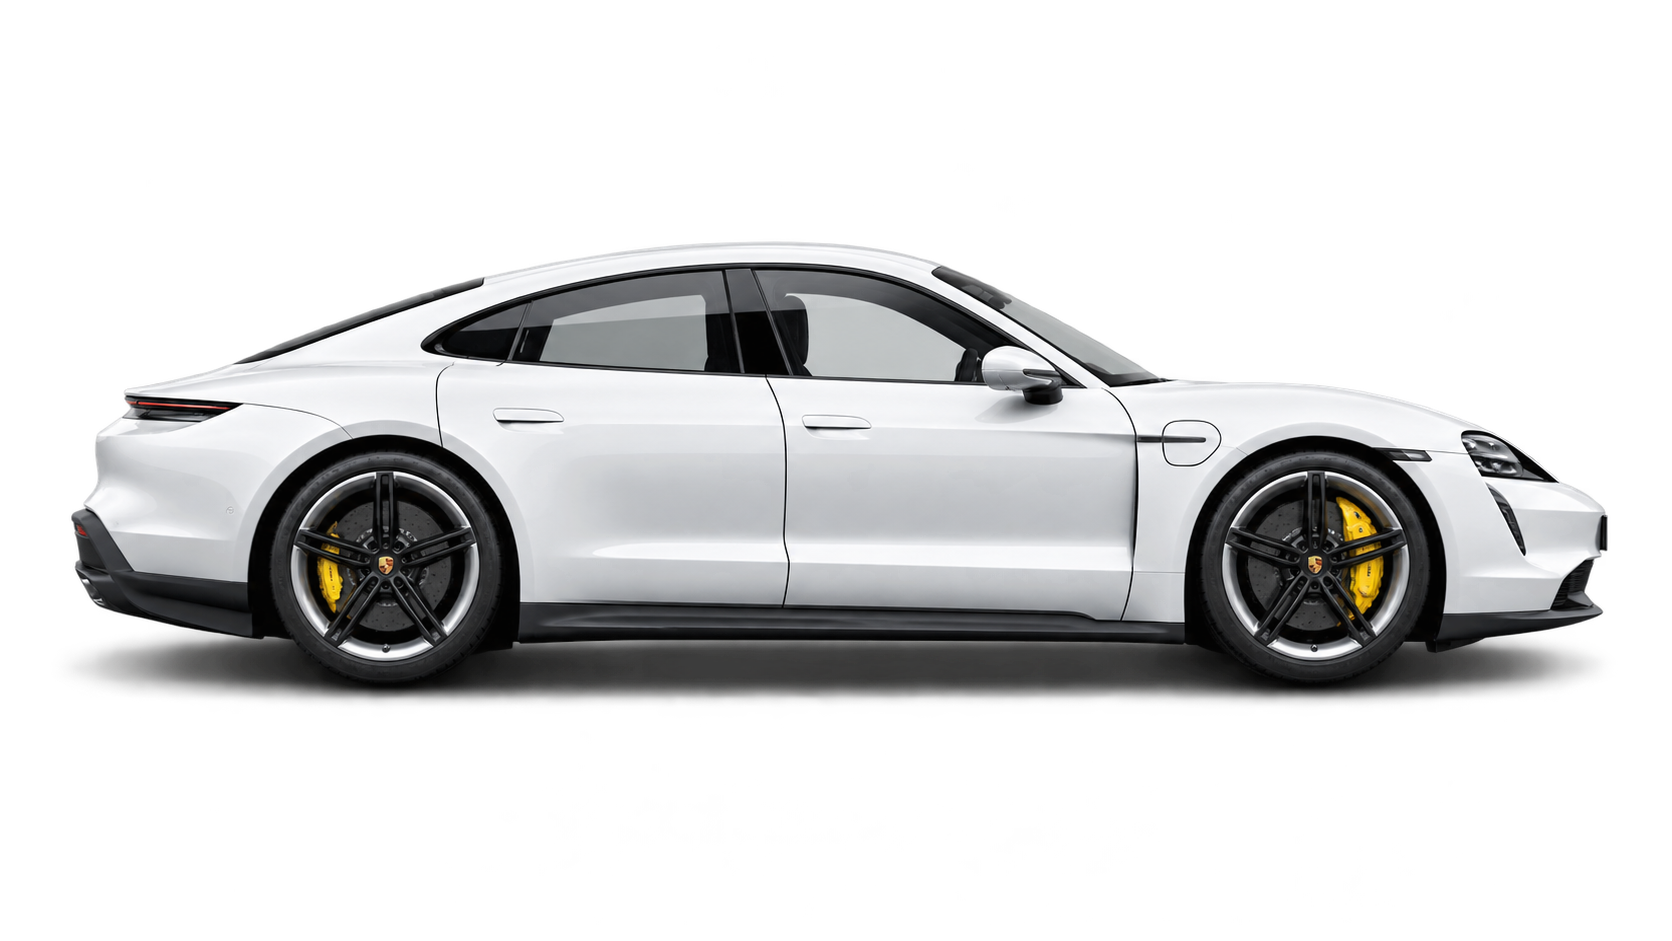
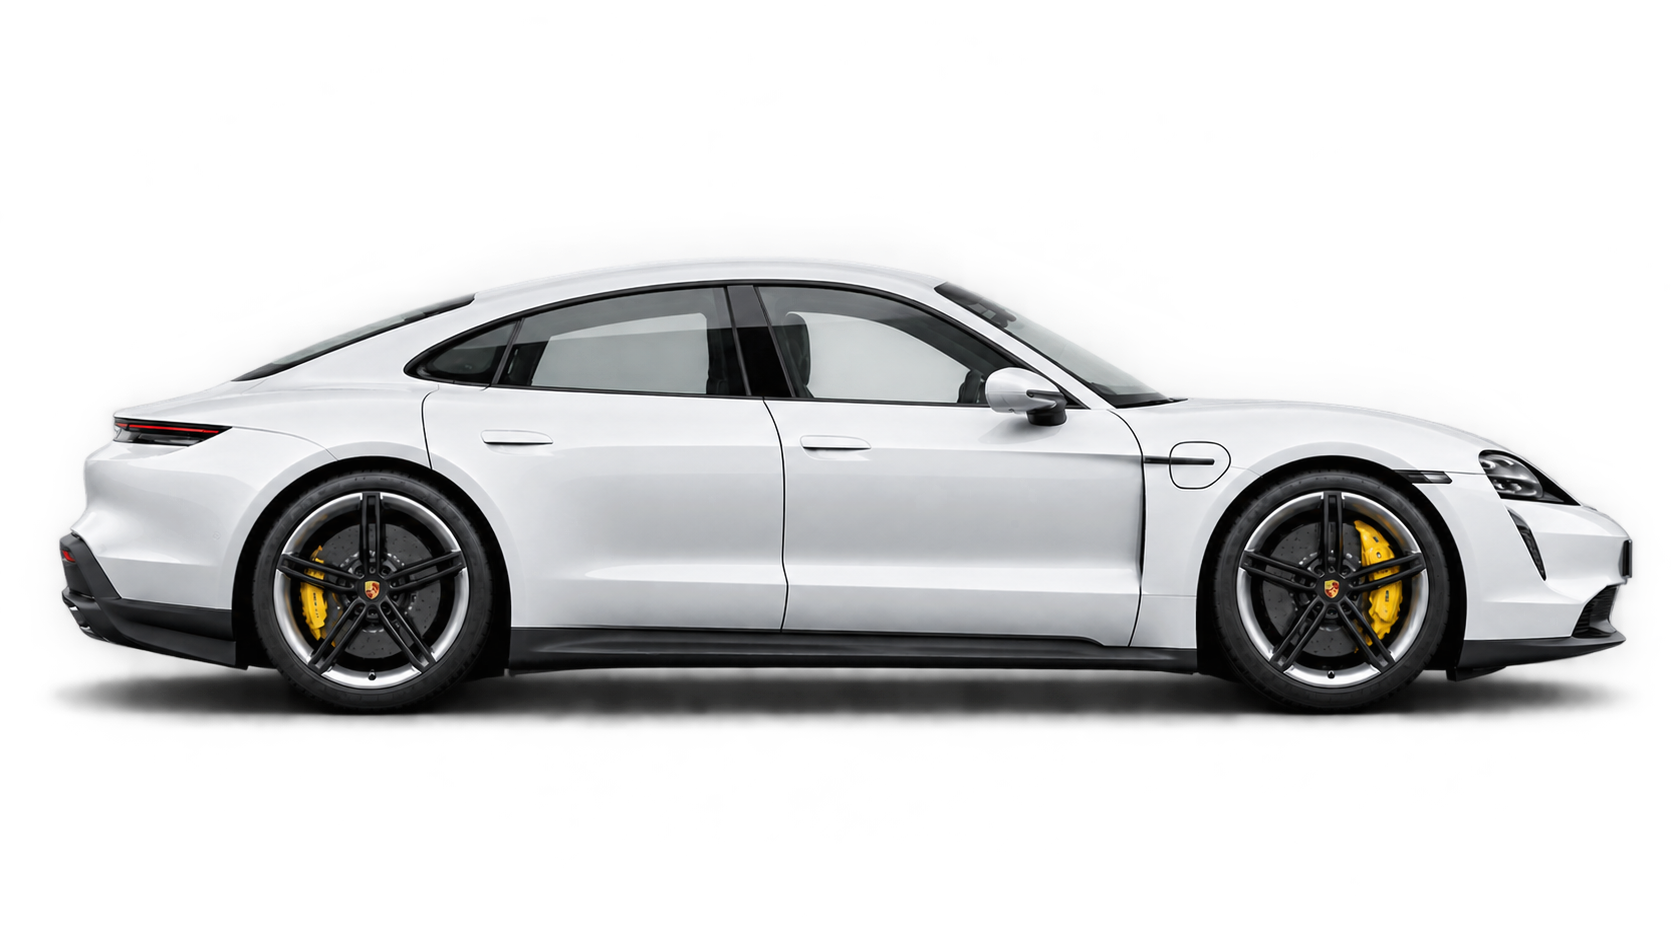
Adding Footer Section and Adjustment in Images

Changed region(s): [[0.0311, 0.2465, 0.9958, 0.7705]]

diff --git a/style.css b/style.css
@@ -3,7 +3,9 @@
     padding: 0;
     box-sizing: border-box;
 }
-html ,body {
+
+html,
+body {
     height: 100%;
     width: 100%;
 }
@@ -12,22 +14,23 @@ main {
     padding: 5px 30px 15px 30px;
     height: 100%;
     width: 100%;
-   
     gap: 10px;
-    
 }
-nav{
+
+nav {
     margin-left: 70px;
     display: flex;
     gap: 40px;
     align-items: center;
 }
-nav img{
+
+nav img {
     height: 100px;
     width: 90px;
     margin-right: 120px;
 }
-nav button{
+
+nav button {
     margin-left: 130px;
     width: 120px;
     height: 37px;
@@ -37,47 +40,77 @@ nav button{
     cursor: pointer;
     font-weight: 700;
 }
-.links{
+
+.links {
     display: flex;
     gap: 80px;
-    align-items:center ;
+    align-items: center;
     text-transform: uppercase;
     font-weight: 700;
     cursor: pointer;
-    font-family:system-ui, -apple-system, BlinkMacSystemFont, 'Segoe UI', Roboto, Oxygen, Ubuntu, Cantarell, 'Open Sans', 'Helvetica Neue', sans-serif ;
+    font-family: system-ui, -apple-system, BlinkMacSystemFont, 'Segoe UI', Roboto, Oxygen, Ubuntu, Cantarell, 'Open Sans', 'Helvetica Neue', sans-serif;
 }
-section{
+
+section {
     height: 50%;
     width: 90%;
     position: relative;
     display: flex;
     flex-direction: column;
     justify-content: flex-start;
-    
-    
+
+
 }
-h1{
+
+.mainheading{
     font-family: sans-serif;
     font-size: 320px;
-    color:rgb(0, 0, 0);
+    color: rgb(0, 0, 0);
     -webkit-text-stroke: 2px rgb(196, 191, 191);
     margin-left: 85px;
-    
+
 }
-.car-div{
-    
+
+.car-div {
+
     position: absolute;
     height: 100%;
     width: 100%;
     top: 40%;
-    
     display: flex;
     align-items: center;
 
 }
-.car-div img{
-    
-    
-    margin-left: 140px;
 
+.car-div img {
+    margin-left: 140px;
+}
+footer{
+    display: flex;
+    margin-top: 13%;
+   
+    gap:140px;
+}
+#name{
+    font-family:  sans-serif;
+    color: black;
+}
+#model{
+    color: gray;
+    font-family:Verdana, Geneva, Tahoma, sans-serif ;
+    font-size: 35px;
+}
+.Feature{
+    display: flex;
+    justify-content: space-between;
+    gap: 60px;
+}
+.spec{
+    color: gray;
+    font-size: 30px;
+}
+.Feature h1{
+    font-family:monospace;
+    font-size: 45px;
+    font-weight: 500;
 }

diff --git a/index.html b/index.html
@@ -28,13 +28,35 @@
             </div>
         </nav>
         <section class="box">
-            <h1>TAYCAN</h1>
+            <h1 class="mainheading">TAYCAN</h1>
             <div class="car-div">
                 <img width="1450" height="700" src="asset/TAYCAN.png" alt="">
             </div>
         </section>
         <footer class="box">
-
+            <div>
+                <h2 id="name">PORSCHE</h2>
+                <h1 id="model">TYCAN TURBO S</h1>
+            </div>
+            <div class="Feature">
+                <div>
+                    <h2 class="spec" >WLPT</h2>
+                    <h1>412Km</h1>
+                </div>
+                <div>
+                    <h2 class="spec">0-100 KM/h</h2>
+                    <h1>2.8s</h1>
+                </div>
+                <div>
+                    <h2 class="spec" >HP</h2>
+                    <h1>560</h1>
+                </div>
+            </div>
+            <div>
+                <img height="100"  width="150" src="asset/interior one.jpg" alt="">
+                
+                <img  height="100"  width="150" src="asset/interior3.jpg" alt="">
+            </div>
         </footer>
 
     </main>
